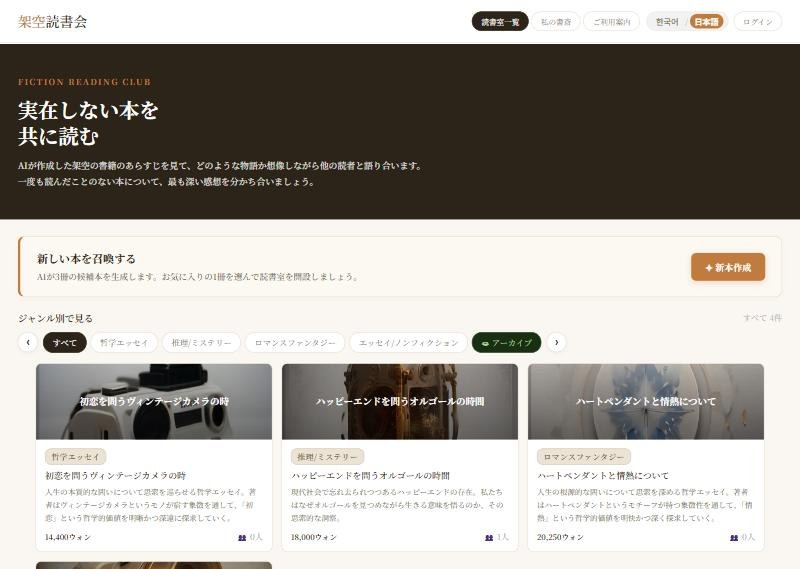
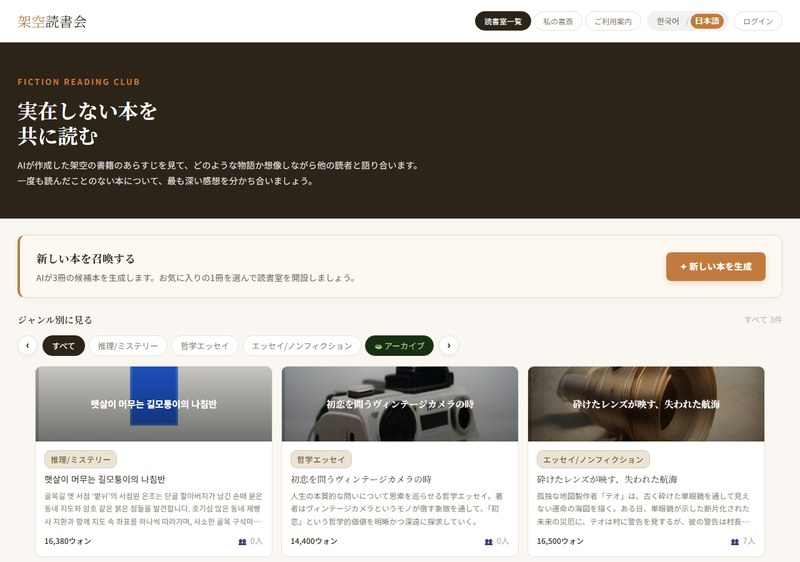
Fix: 수동으로 닫은 상시 방의 종료일이 2054년으로 표시되던 문제, 아카이브 통계 라벨 줄바꿈
- 상시 방(deadline_days≈9999)을 아카이브하면 계산상 종료일이 수십 년 뒤로 나왔다.
  아카이브된 책의 종료일이 미래면 실제 이관 시각(또는 오늘)으로 바꾼다
- 아카이브 통계의 'チャットメッセージ'가 칸 안에서 어색하게 끊겨 'チャット'으로
- README 홈·상세·독서방 스크린샷을 운영 화면(고딕 본문·새 표지·ウォン 표기)으로 교체

diff --git a/static/js/books.js b/static/js/books.js
@@ -5128,7 +5128,7 @@ function adaptDbBookToFrontend(dbBook) {
         genre_prev: "前のジャンル（左へ）",
         genre_next: "次のジャンル（右へ）",
         arc_view_toggle_title: "表示を切り替え",
-        arc_stat_chats: "チャットメッセージ",
+        arc_stat_chats: "チャット",
         arc_stat_comments: "コメント",
         arc_stat_rx: "反応の総数",
         arc_stat_rating: "平均評価",

diff --git a/templates/index.html b/templates/index.html
@@ -66,7 +66,7 @@
 
   <!-- ── JAVASCRIPT MODULES ── -->
   <script src="/static/js/auth.js?v=9"></script>
-  <script src="/static/js/books.js?v=58"></script>
+  <script src="/static/js/books.js?v=59"></script>
 </body>
 
 </html>

diff --git a/main.py b/main.py
@@ -777,6 +777,13 @@ def serialize_book(b: "models.Book", db: Session, rx_totals: dict = None) -> dic
     # 남은 일수는 만료 판정과 같은 계산(날짜 기준)을 쓴다 — 표시와 동작이 어긋나지 않게
     book_dict["deadline_days"] = days_left(b)
     end = room_end_date(b)
+    if b.is_archived and end and end > models.get_kst_now().date():
+        # 상시 방(deadline_days≈9999)을 수동으로 닫으면 계산상 종료일이 수십 년 뒤로 나온다
+        # (아카이브 화면에 '2054-02-02 終了'가 찍혔다). 실제 이관 시각이 있으면 그날로,
+        # 없으면 오늘로 잡는다.
+        moved = db.query(func.max(models.PastChatMessage.archived_at)).filter(
+            models.PastChatMessage.book_id == b.id).scalar()
+        end = (moved.date() if moved else models.get_kst_now().date())
     book_dict["end_date"] = end.isoformat() if end else None
 
     # AI 사회자 및 관리자 계정은 "참여 중인 독자" 수에 포함하지 않는다.
